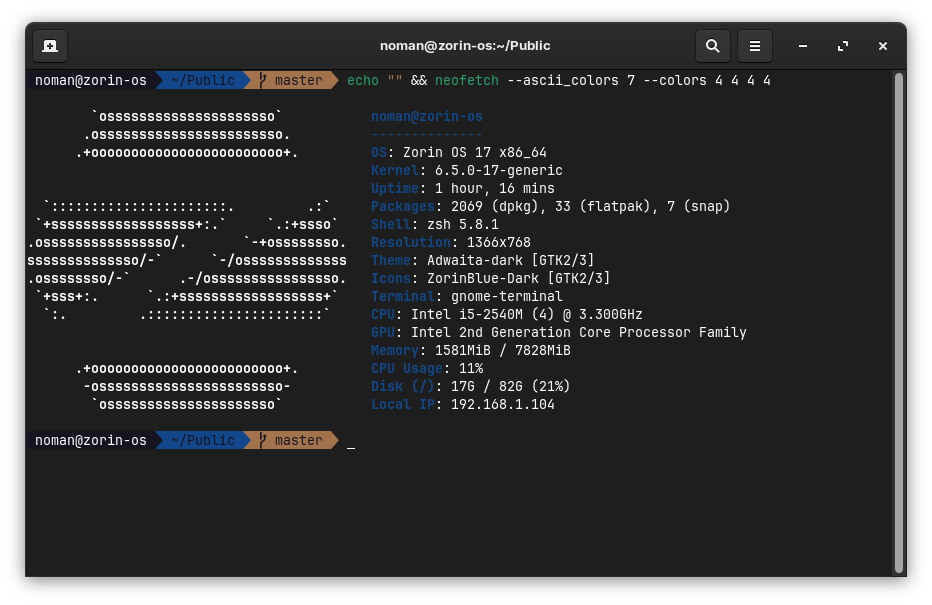
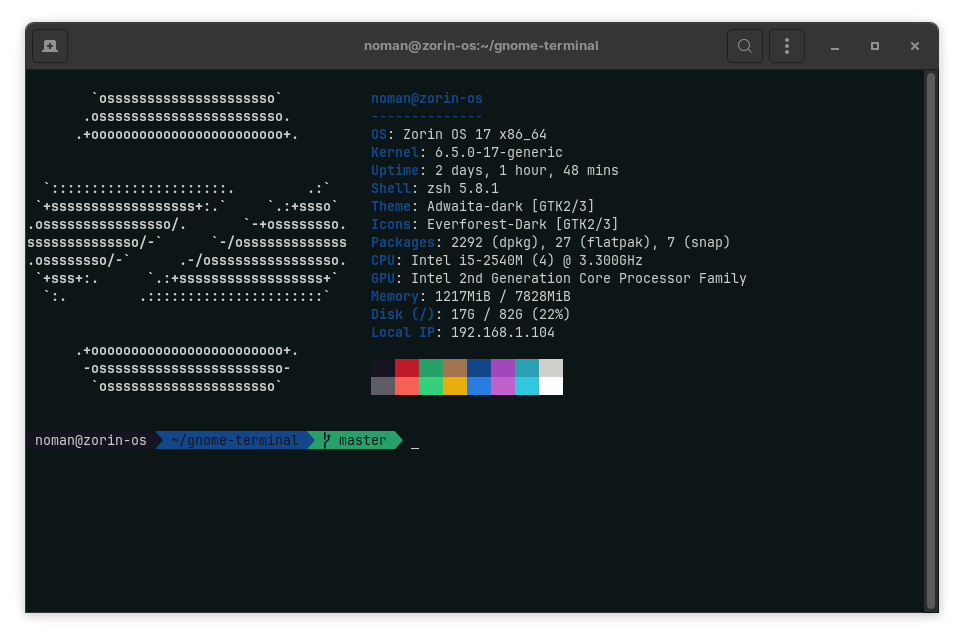
Updated the entire script
There were many issues with the scripts which are now fixed.

Changed region(s): [[0.0, 0.0298, 0.9957, 0.9818]]

diff --git a/README.md b/README.md
@@ -1,44 +1,95 @@
 # shell-prettifier.sh
 
-Shell Prettifier is a simple script that beautifies your terminal with plugins.
+_**Shell Prettifier is a simple script that beautifies your terminal with oh-my-zsh and zsh plugins in gnome-desktop-environment.**_
 
 ![terminal](./screenshot.png)
 
 ## Installation
-**_Make sure to read the "IMPORTANT" warnings output carefully..._**<br>
-To install Shell Prettifier, run the following commands:
+
+**_To install Shell Prettifier, run the following commands:_**
+
+_Clone the repository:_
 
 ```bash
 git clone --depth 1 https://github.com/TechWhizKid/shell-prettifier.git
 ```
+
+_Move to 'shell-prettifier/':_
+
 ```bash
 cd shell-prettifier/
 ```
+
+_Install required packages:_
+
 ```bash
-./shell-prettifier.sh # Don't run the script with sudo
+sudo chmod +x install_requirements.sh
 ```
 
-Requires reboot for the changes to take effect.
+```bash
+./install_requirements.sh
+```
+
+_Install terminal profile:_
+
+```bash
+sudo chmod +x install_profile.sh
+```
+
+```bash
+./install_profile.sh
+```
+
+_If the terminal doesn't switch to zsh run this:_
+
+```bash
+chsh -s $(which zsh)
+```
+
+**_Requires reboot for the changes to take effect._**
 
 **Note:** _Tested on "Zorin OS 17" and "Ubuntu 22.04 LTS"._
 
-**Tip:** _To disable neofetch from launching with the terminal, you can modify the file `~/.zshrc` and comment out the last line from the file and save it._
+**Tip 1:** _To disable neofetch from launching with the terminal, you can modify the file `~/.zshrc` and comment out the last line from the file and save it._
+
+**Tip 2:** _Keep the terminal profile backup file that will be created by `install_profile.sh` script incase you want to revert to your old terminal settings._
+
+**Tip 3:** _You can use the wallpaper from `.shell-prettifier/wallpaper/` to match the color palette._
+
+## Fixing font
+
+_If you are having issues where special characters and icons are not displayed correctly, I recommend downloading another fixed version of the font instead._
+
+_Here is how you can install Menlo-for-Powerline font:_
+
+```bash
+git clone https://github.com/abertsch/Menlo-for-Powerline.git
+```
+
+_After downloading you can add the font to your fonts folder:_
+
+```bash
+cd Menlo-for-Powerline
+cp "Menlo for Powerline.ttf" ~/.fonts
+```
+
+_Lastly, you will need to select the font in your terminals preferences/settings._
 
 ## How to reset
 
-If you want to revert to your old terminal settings, you can load the backup that was made by the `shell-prettifier.sh` script while installing using this command:
+_If you want to revert to your old terminal settings, you can load the backup that was made by the `install_profile.sh` script while installing using this command:_
 
 ```bash
 dconf load /org/gnome/terminal/legacy/profiles:/ < ~/terminal_profile_backup.dconf
 ```
 
-Then, you can reset your shell back to bash with the following command:
+_Then, you can reset your shell back to bash with the following command:_
 
 ```bash
 chsh -s $(which bash)
 ```
 
-Now you can remove the packages that were installed by the script, the packages are:
+_Now you can remove the packages that were installed by the script, the packages are:_
 
 ```bash
 pv git git-core zsh neofetch curl
